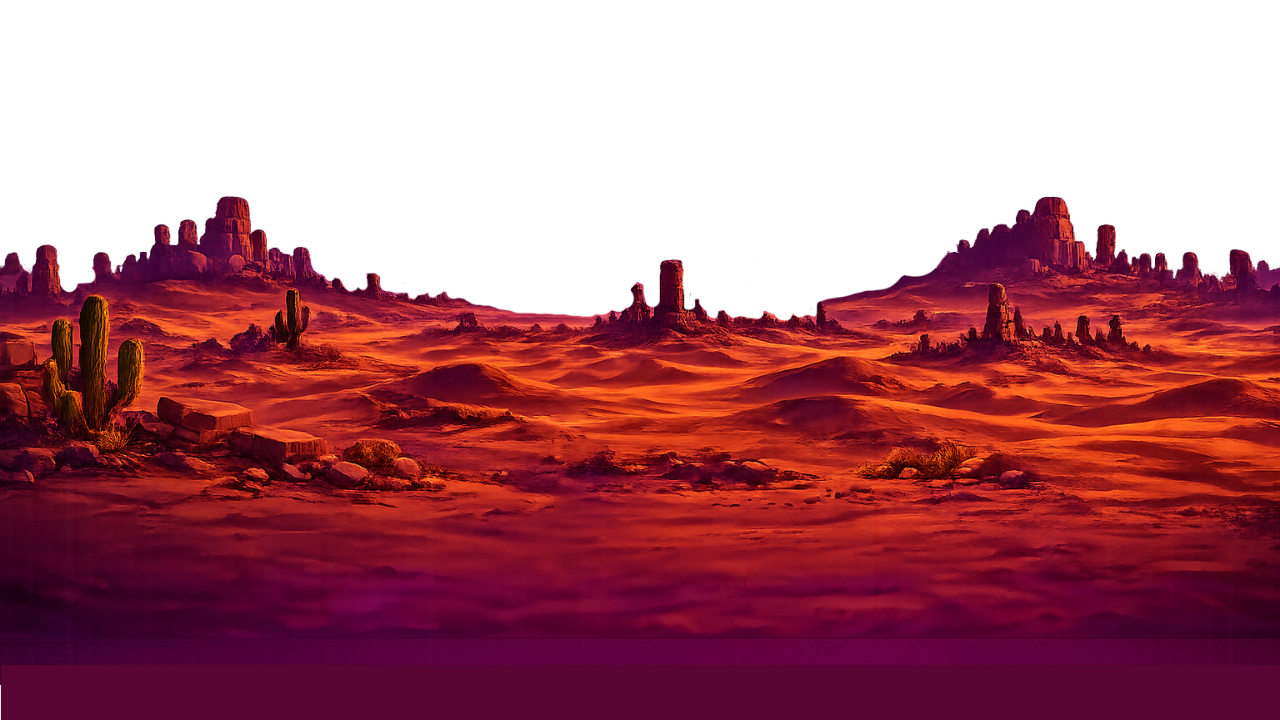
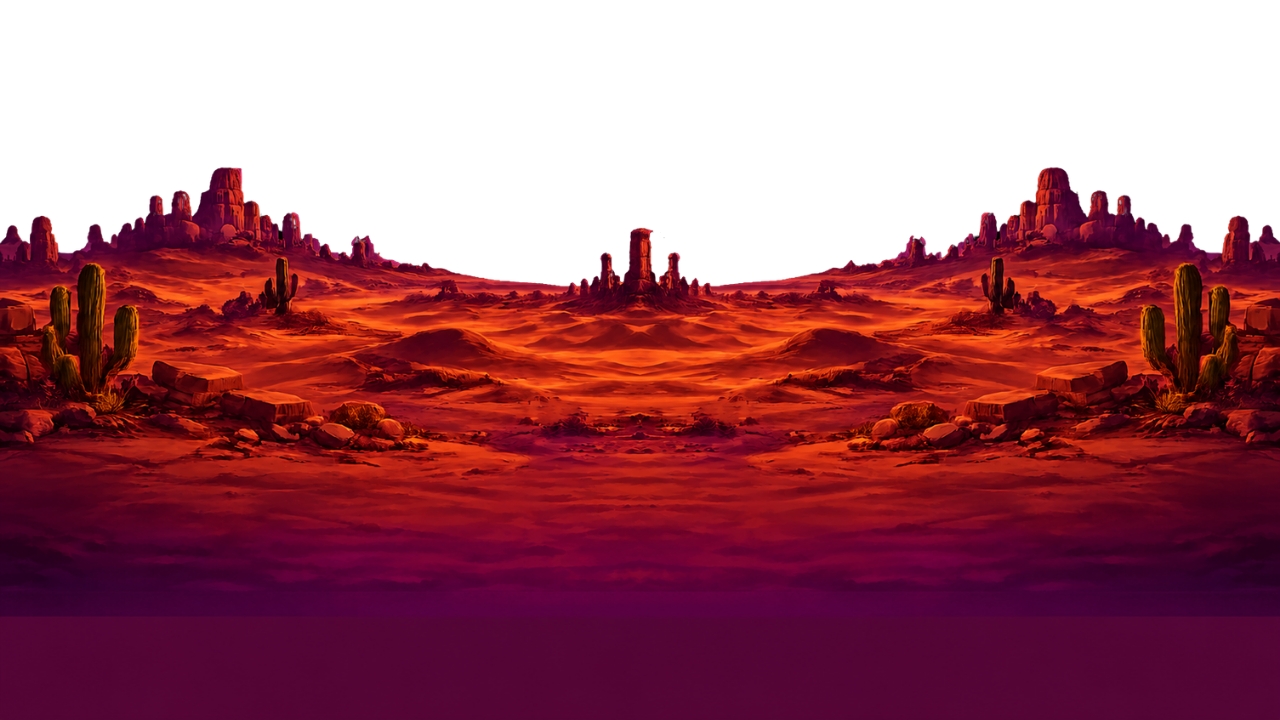
Integrate level 8 art drop and polish boss fight
- Add game8-boss-tarantula.png (dedicated boss sprite, replaces shared tarantula)
- Update game8-parallax-mid/near with new art
- Manifest: add game8.boss key; tarantula key now L5-only
- Cactus obstacles now pick randomly from game8.prop.a/b/c variants
- Boss health bar moved to top-right, right-inset increased for clean fill edge
- Boss HP overlay fully opaque for crisp right-to-left shrink
- Boss flips horizontally when returning to home after a leap
- Boss alpha correctly reset on killTweensOf (prevented stuck transparency)
- starHighYFraction 0.48 to 0.55 (high stars now reachable)
- Stars cleared on boss intro so arena is clean

diff --git a/src/levels/08-desert-dash/DesertDashScene.ts b/src/levels/08-desert-dash/DesertDashScene.ts
@@ -137,10 +137,13 @@ export class DesertDashScene extends Phaser.Scene {
     loadAsset(this, 'desert.parallax.mid', 'game8.parallax.mid');
     loadAsset(this, 'desert.parallax.near', 'game8.parallax.near');
     loadAsset(this, 'game8.floor', 'game8.floor');
+    loadAsset(this, 'game8.prop.a', 'game8.prop.a');
+    loadAsset(this, 'game8.prop.b', 'game8.prop.b');
+    loadAsset(this, 'game8.prop.c', 'game8.prop.c');
     loadAsset(this, 'game8.jumpButton', 'game8.jumpButton');
     loadAsset(this, 'game8.bossHealthBar', 'game8.bossHealthBar');
     loadAsset(this, 'finishBanner', 'finishBanner', { size: 220 });
-    loadAsset(this, 'tarantula', 'tarantula', { size: CFG.bossSize });
+    loadAsset(this, 'tarantula', 'game8.boss', { size: CFG.bossSize });
     loadAsset(this, 'boss.spike', 'cactus.spike');
   }
 
@@ -320,10 +323,10 @@ export class DesertDashScene extends Phaser.Scene {
     }
 
     // Boss health bar: ornate SVG frame (full bar art) + a dark overlay that
-    // covers the depleted portion. Both hidden until the boss phase.
+    // covers the depleted portion. Right-aligned under the hearts row.
     const frameW = CFG.bossHealthBarFrameWidthPx;
     const frameH = frameW * (52.5 / 375); // preserve the SVG's aspect ratio
-    this.bossHealthFrame = this.add.image(width / 2, CFG.bossHealthBarYPx + frameH / 2, 'game8.bossHealthBar')
+    this.bossHealthFrame = this.add.image(width - 16 - frameW / 2, CFG.bossHealthBarYPx + frameH / 2, 'game8.bossHealthBar')
       .setDisplaySize(frameW, frameH)
       .setScrollFactor(0)
       .setDepth(15)
@@ -538,7 +541,7 @@ export class DesertDashScene extends Phaser.Scene {
     const baseY = height - CFG.floorPaddingPx + CFG.floorEmbedPx;
     const spawn = (wx: number) => {
       const kind: ObstacleKind = Math.random() < CFG.obstacleRockChance ? 'rock' : 'cactus';
-      const texture = kind === 'rock' ? 'rock' : 'cactus.spike';
+      const texture = kind === 'rock' ? 'rock' : Phaser.Math.RND.pick(['game8.prop.a', 'game8.prop.b', 'game8.prop.c']);
       const sprite = this.add.image(0, 0, texture).setDepth(7);
       sprite.setScale(CFG.obstacleSize / sprite.height);
       // Anchor sprite so its base sits embedded in the sand strip
@@ -634,11 +637,13 @@ export class DesertDashScene extends Phaser.Scene {
     this.phase = 'bossIntro';
     const { width, height } = this.scale;
 
-    // Clear the running-phase obstacles so the boss arena is a clean pit. Once
-    // updateRunning stops being called these would otherwise freeze in place
-    // and litter the fight floor. (startOutro wipes any stragglers too.)
+    // Clear the running-phase obstacles and stars so the boss arena is a clean
+    // pit. Once updateRunning stops being called these would otherwise freeze
+    // in place and litter the fight floor. (startOutro wipes any stragglers too.)
     for (const o of this.obstacles) o.sprite.destroy();
     this.obstacles = [];
+    for (const s of this.stars) s.sprite.destroy();
+    this.stars = [];
 
     // Show "Boss Incoming!" banner
     this.unlockBanner = this.add.text(width / 2, height * 0.32, 'BOSS INCOMING!', {
@@ -757,8 +762,10 @@ export class DesertDashScene extends Phaser.Scene {
     this.bossSubstate = 'telegraph';
     this.bossSubstateUntil = this.time.now + CFG.bossTelegraphMs;
 
-    // Visual telegraph: rear up (scale Y up briefly + tint)
+    // Visual telegraph: rear up (scale Y up briefly + tint). Restore facing toward player.
     this.tweens.killTweensOf(this.boss);
+    this.boss.setAlpha(1);
+    this.boss.setFlipX(false);
     this.boss.setAngle(0);
     const baseScale = this.boss.scale;
     this.tweens.add({
@@ -900,10 +907,11 @@ export class DesertDashScene extends Phaser.Scene {
       }
     } else if (this.bossSubstate === 'landed') {
       if (this.time.now >= this.bossSubstateUntil) {
-        // Return to home
+        // Return to home — flip to face right while scurrying back.
         this.bossSubstate = 'returning';
         this.bossSubstateUntil = this.time.now + CFG.bossReturnMs;
         this.tweens.killTweensOf(this.boss);
+        this.boss.setFlipX(true);
         this.tweens.add({
           targets: this.boss,
           x: this.bossHomeX,
@@ -1029,16 +1037,17 @@ export class DesertDashScene extends Phaser.Scene {
     const { width } = this.scale;
     const frameW = CFG.bossHealthBarFrameWidthPx;
     const frameH = frameW * (52.5 / 375);
-    const frameLeft = width / 2 - frameW / 2;
+    const frameLeft = width - 16 - frameW;
     const frameTop = CFG.bossHealthBarYPx;
     this.bossHealthFrame.setVisible(true);
 
     // Interior region of the frame where the fill lives.
-    const insetX = frameW * CFG.bossHealthBarFillInsetXFrac;
+    const insetLeft = frameW * CFG.bossHealthBarFillInsetXFrac;
+    const insetRight = frameW * CFG.bossHealthBarFillInsetRightFrac;
     const insetY = frameH * CFG.bossHealthBarFillInsetYFrac;
-    const interiorX = frameLeft + insetX;
+    const interiorX = frameLeft + insetLeft;
     const interiorY = frameTop + insetY;
-    const interiorW = frameW - insetX * 2;
+    const interiorW = frameW - insetLeft - insetRight;
     const interiorH = frameH - insetY * 2;
 
     const hpFrac = Phaser.Math.Clamp(this.bossHp / CFG.bossHp, 0, 1);
@@ -1049,13 +1058,13 @@ export class DesertDashScene extends Phaser.Scene {
     // Darken the depleted (right) portion so HP reads regardless of the
     // frame art's baked-in fill.
     if (emptyW > 0.5) {
-      g.fillStyle(0x140404, 0.78);
+      g.fillStyle(0x0a0206, 1.0);
       g.fillRect(interiorX + (interiorW - emptyW), interiorY, emptyW, interiorH);
     }
 
     // Label
     if (!this.bossLabelDrawn) {
-      this.add.text(width / 2, frameTop - 6, 'GIANT SAND TARANTULA', {
+      this.add.text(width - 16 - frameW / 2, frameTop - 6, 'GIANT SAND TARANTULA', {
         fontFamily: 'system-ui, sans-serif',
         fontSize: '14px',
         color: '#ffd5a8',

diff --git a/src/levels/08-desert-dash/config.ts b/src/levels/08-desert-dash/config.ts
@@ -49,7 +49,7 @@ export const DESERT_DASH_CONFIG = {
   starSpawnJitter: 0.30,
   starSize: 56,
   starBonusPoints: 5,
-  starHighYFraction: 0.48,             // reachable with a double-jump
+  starHighYFraction: 0.55,             // reachable with a double-jump
   starLowYFraction: 0.63,              // reachable with a single jump
   starHighChance: 0.45,                // chance a star spawns high vs low
   starColliderRadiusPx: 50,
@@ -123,7 +123,8 @@ export const DESERT_DASH_CONFIG = {
   // Boss UI — the frame is the game8-boss-health-bar.svg art; the red fill is
   // drawn dynamically inside it, inset by these fractions of the frame size.
   bossHealthBarFrameWidthPx: 300,
-  bossHealthBarFillInsetXFrac: 0.085,
+  bossHealthBarFillInsetXFrac: 0.085,      // left inset
+  bossHealthBarFillInsetRightFrac: 0.22,   // right inset — larger to clear RHS decoration
   bossHealthBarFillInsetYFrac: 0.30,
-  bossHealthBarYPx: 70,
+  bossHealthBarYPx: 82,
 } as const;

diff --git a/src/assets/manifest.ts b/src/assets/manifest.ts
@@ -134,7 +134,8 @@ export const ASSETS: Record<string, AssetEntry> = {
   rainOverlay: { kind: 'svg', generate: (opts) => rainOverlaySvg(opts as RainOverlayOptions) },
   star: { kind: 'svg', generate: (opts) => starSvg(opts as StarOptions) },
   sunOverlay: { kind: 'svg', generate: (opts) => sunOverlaySvg(opts as SunOverlayOptions) },
-  tarantula: { kind: 'image', src: '/art/tarantula.png' }, // SHARED: L5 (Cactus Slicing) + L8 (Desert Dash boss)
+  tarantula: { kind: 'image', src: '/art/tarantula.png' }, // SHARED: L5 (Cactus Slicing)
+  'game8.boss': { kind: 'image', src: '/art/game8-boss-tarantula.png' }, // L8 Desert Dash boss (dedicated art)
   camel: { kind: 'svg', generate: (opts) => camelSvg(opts as CamelOptions) },
   rock: { kind: 'image', src: '/art/rock.png' }, // SHARED: L2 (Camel Race) + L8 (Desert Dash)
   waterFlask: { kind: 'image', src: '/art/water-flask.png' },